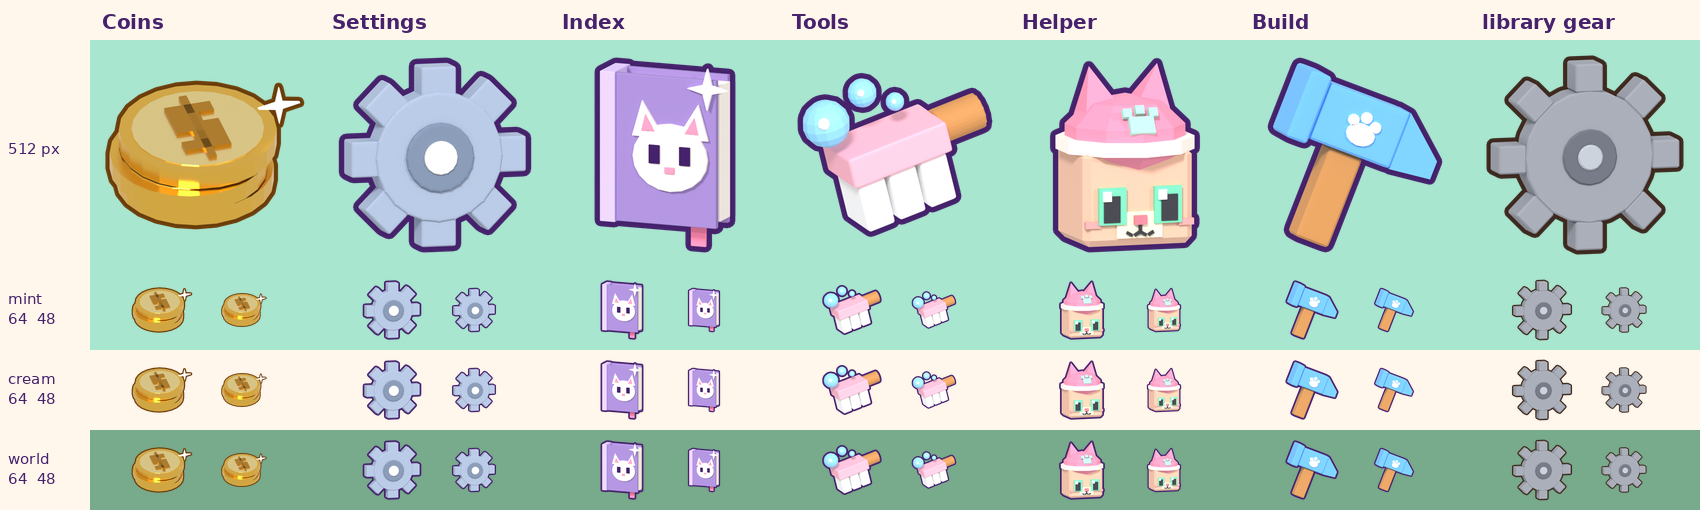
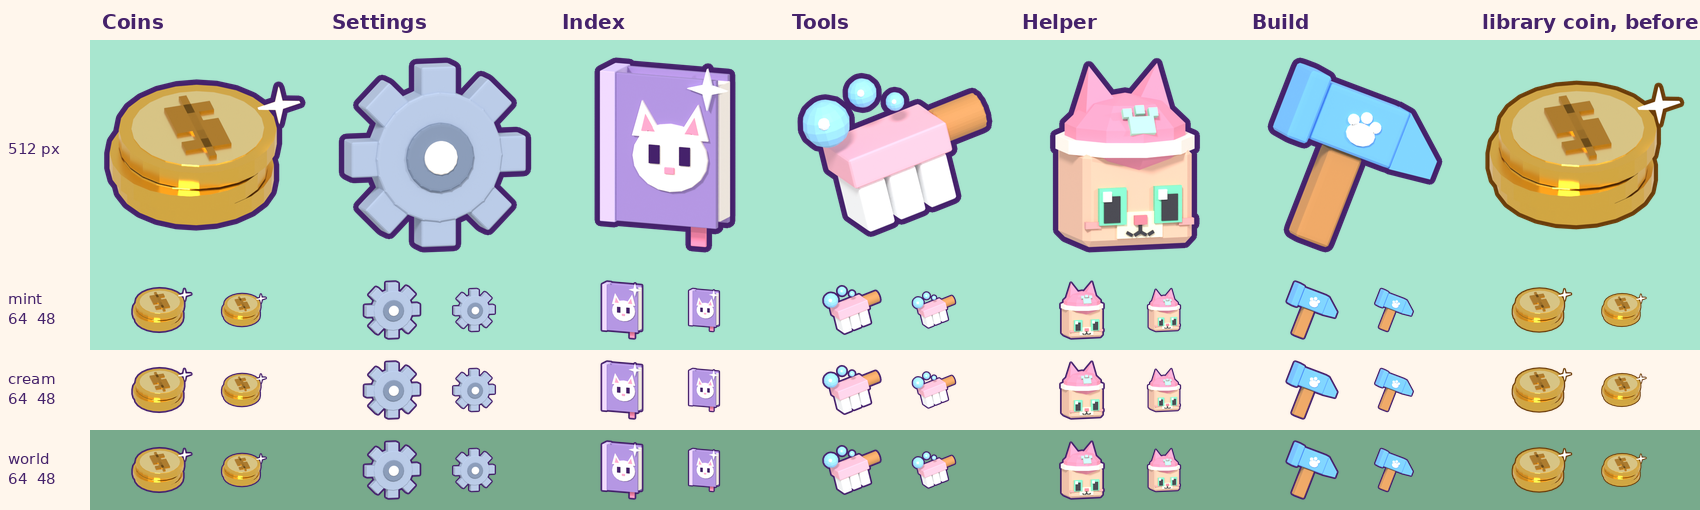
HUD coin: the library coin with its outline redrawn in the HUD ink (#185)
The owner asked for his library coin to be re-outlined to match the other five
HUD pictures. hud_coin.py turns the library's brown 10 px outline into the
purple ink at 13 px and leaves the coin inside it untouched.

Claude-Session: https://claude.ai/code/session_01DW2up3E6M21fYJtCcCtEdr

diff --git a/assets/clean-a-cat/blender/hud_coin.py b/assets/clean-a-cat/blender/hud_coin.py
@@ -1,0 +1,65 @@
+"""The HUD coin (#185): the owner's library coin picture with its outline redrawn in the HUD ink.
+
+    python3 hud_coin.py <library CatCafe_Icon_Coins.png> <out CleanACat_Icon_Hud_Coins.png>
+
+Plain Python with Pillow and numpy. The owner chose his library's coin over a coin rendered here, then asked for it to
+be re-outlined to match the other five HUD pictures (2026-11-24: "just reoutline it"). So the coin itself is not
+touched: only the library's brown outline (#6B3D0A, 10 px) turns into the ink the other five use (#45226B), and it
+grows to their 13 px. Where the outline's edge blends into the gold, the brown share of each pixel is swapped for ink.
+"""
+
+import sys
+
+import numpy as np
+from PIL import Image
+
+BROWN = np.array((107, 61, 10), dtype=np.float32)      # the library outline, measured from the file
+INK = np.array((0x45, 0x22, 0x6B), dtype=np.float32)   # the outline of hud_icons.py
+WIDTH, GROW = 10, 3                                    # px: the library's outline, and what takes it to our 13
+EXACT, PURE, REACH = 3.0, 12.0, 150.0                  # colour distance: the outline's own colour, outline, gold
+
+
+def _disc(r):
+    return [(dy, dx) for dy in range(-r, r + 1) for dx in range(-r, r + 1) if dx * dx + dy * dy <= r * r]
+
+
+def _grow(mask, r):
+    out = mask.copy()
+    for dy, dx in _disc(r):
+        out = np.maximum(out, np.roll(np.roll(mask, dy, 0), dx, 1))
+    return out
+
+
+def reoutline(src, dst):
+    px = np.array(Image.open(src).convert("RGBA")).astype(np.float32)
+    rgb, a = px[:, :, :3], px[:, :, 3] / 255.0
+    dist = np.sqrt(((rgb - BROWN) ** 2).sum(axis=2))
+    outline = ((dist < PURE) & (a > 0)).astype(np.float32)
+    # Only as far in as the outline reaches: the dark seam between the two coins is nearly the same brown. A notch
+    # the outline filled (between the twinkle and the coin) lies deeper, so it is reached by spreading from the
+    # outline through pixels of exactly its colour, which a rendered shadow never holds for long.
+    near = _grow((a < 0.5).astype(np.float32), WIDTH + 2) > 0
+    exact = (dist < EXACT) & (a > 0)
+    fill = exact & near
+    while True:
+        spread = fill.copy()
+        for dy, dx in ((0, 1), (0, -1), (1, 0), (-1, 0)):
+            spread |= np.roll(np.roll(fill, dy, 0), dx, 1)
+        spread &= exact
+        if (spread == fill).all():
+            break
+        fill = spread
+    reach = near | (_grow(fill.astype(np.float32), 2) > 0)
+    band = (_grow(outline, 2) > 0) & reach
+    share = np.clip(1.0 - dist / REACH, 0.0, 1.0) * band
+    rgb = rgb + share[:, :, None] * (INK - BROWN)
+    grown = _grow(a, GROW)
+    out = np.empty_like(px)
+    out[:, :, :3] = rgb * a[:, :, None] + INK * (1.0 - a[:, :, None])
+    out[:, :, 3] = grown * 255.0
+    Image.fromarray(np.clip(out + 0.5, 0, 255).astype(np.uint8), "RGBA").save(dst)
+    return int(outline.sum()), int((share > 0).sum())
+
+
+if __name__ == "__main__":
+    print("outline pixels %d, recoloured %d" % reoutline(sys.argv[1], sys.argv[2]))

diff --git a/assets/clean-a-cat/blender/hud_icons.py b/assets/clean-a-cat/blender/hud_icons.py
@@ -15,8 +15,9 @@ ported from its icons.py), in Bubble Pastel colours with the UI's ink outline.
   Build     a blue hammer with a wooden handle and a white paw on its head
 
 There is no coin here on purpose. The owner picked his library's own coin picture for the HUD (2026-11-24: "use
-library coin ... the other new coin doesn't look as good"), so CleanACat_Icon_Hud_Coins.png is a copy of the library's
-CatCafe_Icon_Coins.png and a rebuild must not bring a rendered coin back.
+library coin ... the other new coin doesn't look as good", the paw on it was done badly), then asked for it to be
+re-outlined to match. hud_coin.py does that from the library's CatCafe_Icon_Coins.png; a rebuild here must not bring a
+rendered coin back.
 
 Nothing here is a game model and nothing is uploaded: the ui-designer decides what goes into the game.
 """

diff --git a/docs/concepts/clean-a-cat/README.md b/docs/concepts/clean-a-cat/README.md
@@ -49,6 +49,6 @@ HUD source page: `assets/clean-a-cat/ui/hud.html`. Plans: issues #5 (first sessi
 - `2026-11-24-bubble-bath.png`: the check sheet for the reworked bubble bath (#172), the wash tub's upgrade. Before and after from three quarter, the play camera and the back, at 667 px, beside the wash tub, and as icons at 128, 64 and 32 px on mint. It is now a bubblegum slipper bath on a cream and gold plinth with a gold bubble fountain and lather spilling over the front. 113 parts (68 before), seat 1.5 (1.32 before). The last row shows the two painted bubbles added to the wash tub's back. 2026-11-24.
 - `2026-11-24-stations-pass.png`: the check sheet for the stations pass (#193). The brush table, its upgrade, the dryer and the pawdicure before and after: each now stands on a solid body (a cabinet, a pouf on a plinth) with brass or gold trim, so it holds up beside the two new baths. Three quarter, play camera and back views, all six stations in a row before and after, the brush table and dryer at 667 px, and the old and new icons at 112, 64 and 32 px on mint. 2026-11-24.
 - `2026-11-24-icon-blends.png`: the two HUD icon blends side by side on the phone HUD (844 x 390) with the six icons at 64 and 48 px: A, ours mixed with Phosphor two tone (flat), and B, ours mixed with Derek's library (3D renders). Derek picked B for now (#185). 2026-11-24.
-- `2026-11-24-hud-icons.png`: the six HUD button pictures (#185) in the blend the owner picked "for now", our look mixed with his library icons: coins (the library's own coin, his call), settings, Cat Index, tools, helper and build at 512 px, then at 64 and 48 px on mint, cream and a world green, beside the library's gear. Nothing is uploaded. 2026-11-24.
+- `2026-11-24-hud-icons.png`: the six HUD button pictures (#185) in the blend the owner picked "for now", our look mixed with his library icons: coins (the library's own coin with its outline redrawn in the HUD ink, his call), settings, Cat Index, tools, helper and build at 512 px, then at 64 and 48 px on mint, cream and a world green, beside the library coin as it was. Nothing is uploaded. 2026-11-24.
 - `2026-11-24-ui-renders.png`: the check sheet for the pictures made from the models for the screens (#127): 66 portraits and icons at 128 px, alone on cream and with the ink outline on mint, then with the outline at 64 px and 32 px. The pictures themselves are in the project files under `Model-Agent/ui-renders/`. 2026-11-24.
 - `ui-2026-11-24/`: draft screens for the parts very likely needed whichever loop is picked (HUD, wash steps, recap, who's next queue, Cat Index, new cat reveal, cat chances, tools, helpers, builder, settings, toasts and praise, tutorial steps, while you were away). Each at phone (844 x 390) and desktop (1280 x 720). Source pages and the screen check are in `assets/clean-a-cat/ui/screens/`; every screen passes the check at seven screen sizes. Stand-in art, invented numbers and names. 2026-11-24.

diff --git a/docs/art/style-guide.md b/docs/art/style-guide.md
@@ -258,7 +258,7 @@ Portraits and icons are rendered from the real models, never drawn apart from th
 Six pictures for the HUD's buttons, drawn apart from the game models because a button names an idea (settings, build mode), not a thing in the world. The owner compared two blends on 2026-11-24 and picked this one "for now": our look mixed with his library's HUD icons.
 - `hud_icons.py <out folder> [--only Index,Tools]` (Blender's Python) writes five of them as `CleanACat_Icon_Hud_<Name>.png`: 512 px, see-through, with a 13 px outline in `#45226B`, the ink the ui-designer asked for on these (the `_ink` model icons above use `#3B2D45`; one of the two has to win before any upload). The camera, the two lights and the outline pass are ported from the library's `icons.py`; the colours are ours.
 - One bold object per picture that can be named at 48 px, built fat with rounded edges, tilted a little and filling the square about as much as the gear does. No small parts.
-- `Coins` is not rendered. The owner chose his library's own coin picture as it is (`CatCafe_Icon_Coins.png`: a gold stack with a $ and a brown outline) over the paw coin first drafted here, so `CleanACat_Icon_Hud_Coins.png` is a copy of that file and the generator has no coin.
+- `Coins` is not rendered. The owner chose his library's own coin picture (`CatCafe_Icon_Coins.png`: a gold stack with a $) over the paw coin first drafted here, whose paw was done badly, then asked for it to be re-outlined to match the set. `hud_coin.py <library coin png> <out png>` (plain Python with Pillow and numpy) does only that: the library's brown 10 px outline becomes the `#45226B` ink at 13 px and the coin inside it is not touched. The generator has no coin, so a rebuild cannot bring the paw coin back.
 - `Settings`: a gear with eight teeth in soft blue grey. `Index`: a purple book with a cream cat's face on the cover and a pink bookmark. `Tools`: the game's pink scrub brush made fat, with soap bubbles (Review-QA: the bubbles get busy at 48 px, the first thing to thin if it is reworked). `Helper`: the first helper kitten's real head in its bath cap. `Build`: a blue hammer with a wooden handle and a white paw.
 - `Helper` is the one picture made from a game model, and its cap is one step deeper pink (`nose_bubblegum`) than the model's so cap and face part at 48 px. The model's cap is unchanged.
 - Nothing is uploaded by this script. The ui-designer keeps the six in `assets/clean-a-cat/ui/` and uploads are group owned.

diff --git a/assets/clean-a-cat/blender/README.md b/assets/clean-a-cat/blender/README.md
@@ -40,7 +40,8 @@ Flags: `--only Smudge,Tux` (name fragments; a partial build leaves the manifest 
 | `burrs.py` | things stuck in the fur (#126): the burr, the leaf and the forked twig, pivoted at the underside with up out of the fur |
 | `busy_spa.py` | a busy spa (#124): the waiting bench with `Spot1..3` and `Tag1..3`, the front desk with `Bell`, `TipJarSpot` and a `Screen` card, three helper kittens in smocks with `HatSlot` and `ToolGrip`, their bath caps, the rare visitor's beret and shades, and the framed star photo the visitor leaves (#142) |
 | `ui_renders.py`, `ui_compose.py` | pictures of the models for the screens (#127): see-through cat portraits and model icons rendered from the real models, then trimmed, outlined in the UI's ink and laid out on a check sheet at 128, 64 and 32 px |
-| `hud_icons.py` | five of the HUD's six button pictures (#185): settings, Cat Index, tools, helper and build, 512 px with a thick ink outline, in a blend of our look and the library's HUD icons. The coin is the library's own picture, not rendered here. Render only, not in `build_all.py` |
+| `hud_icons.py` | five of the HUD's six button pictures (#185): settings, Cat Index, tools, helper and build, 512 px with a thick ink outline, in a blend of our look and the library's HUD icons. The coin is the library's own picture, re-outlined by `hud_coin.py`. Render only, not in `build_all.py` |
+| `hud_coin.py` | the HUD coin (#185): redraws the outline of the owner's library coin picture in the HUD ink and leaves the coin as it is. Plain Python with Pillow and numpy |
 | `vip.py` | the VIP Room before it is built (#21): the locked look (door, sign `Screen`, tarp over scaffold) and the building look (frame half up) at `SpotVipDoor` |
 | `coat_table.py` | the coat table (#22): `rbx/CleanACat_CoatTable.json`, read in game as `ReplicatedStorage.Assets.CleanACat_CoatTable` (rarity, index order, colours and model names per cat) |
 | `store_art.py` | store art (#24): the raw icon and thumbnail shots from the real models, with a see-through background and shadows (`store_art.py <folder> [names] [--final]`); `thumb-spa` is the picked thumbnail and uses a store-art-only claw-foot bath ported from Derek's Bathtub Sofa (#116) |
